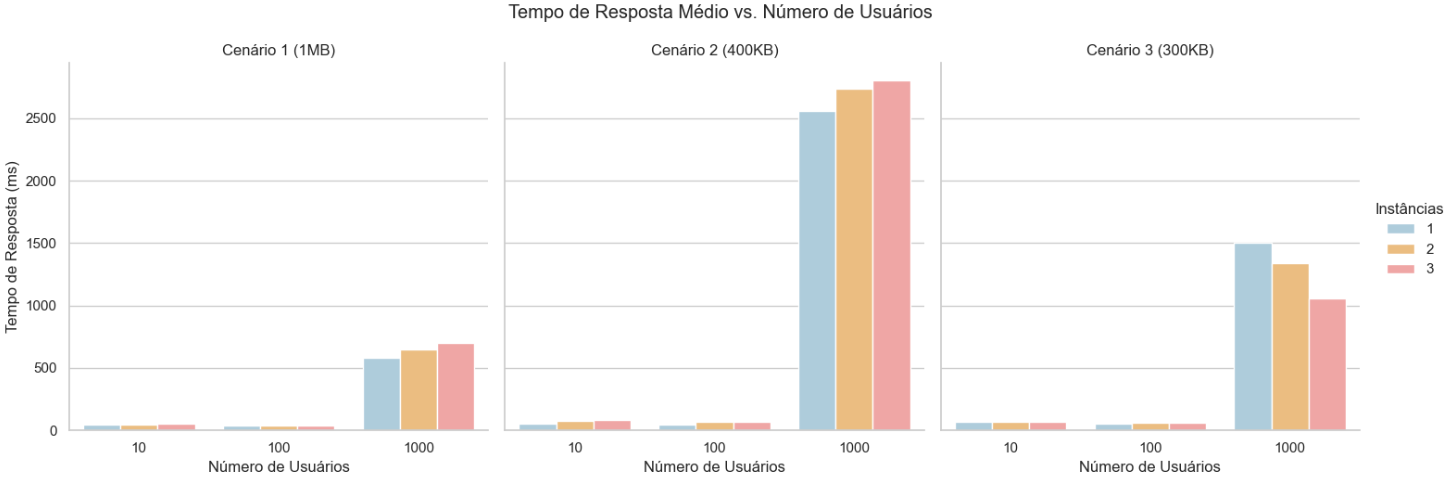
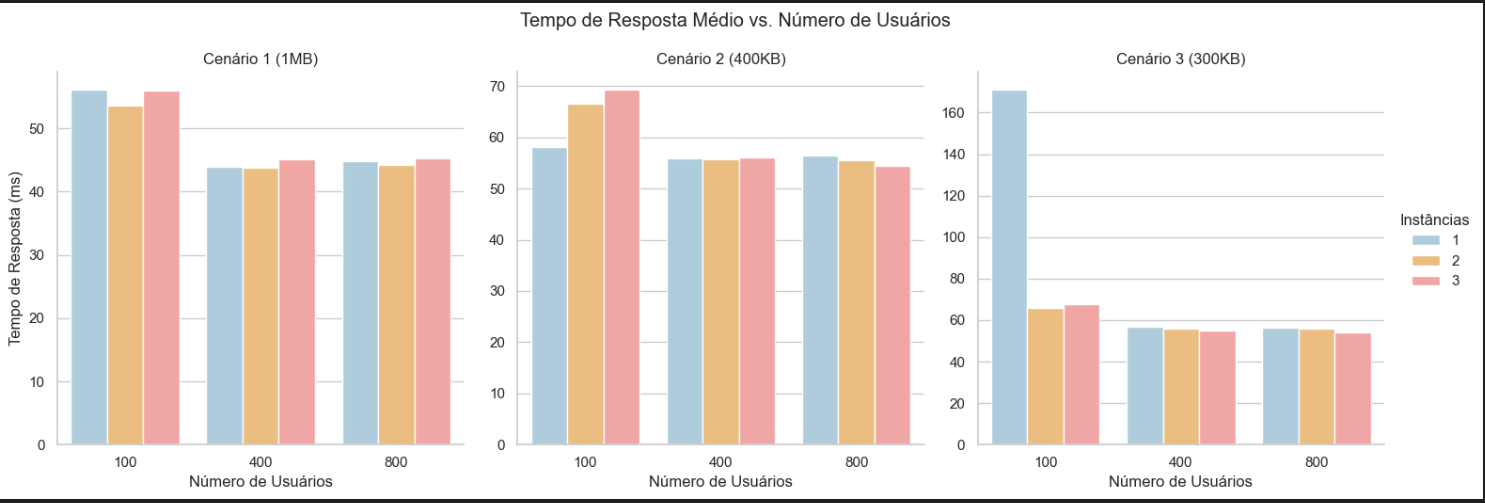
feat: novos valores

diff --git a/locust-scripts/gerar_graficos.py b/locust-scripts/gerar_graficos.py
@@ -91,30 +91,31 @@ try:
 except Exception as e:
     print(f"Erro ao gerar o Gráfico 1: {e}")
 
-try:
-    g2 = sns.catplot(
-        data=df_consolidado,
-        x='Instancias',         
-        y='RPS',                 
-        hue='Usuarios',          
-        col='Cenario',          
-        kind='bar',
-        palette=my_palette,     
-        height=5,
-        aspect=1,
-        legend_out=True,
-        sharey=False
-    )
-    g2.fig.suptitle('Requisições por Segundo (RPS) vs. Número de Instâncias', y=1.05)
-    g2.set_axis_labels('Número de Instâncias', 'Requisições por Segundo (RPS)')
-    g2.set_titles("{col_name}")
-    g2._legend.set_title('Usuários')
+# Mostrar apenas um dos gráficos
+# try:
+#     g2 = sns.catplot(
+#         data=df_consolidado,
+#         x='Instancias',         
+#         y='RPS',                 
+#         hue='Usuarios',          
+#         col='Cenario',          
+#         kind='bar',
+#         palette=my_palette,     
+#         height=5,
+#         aspect=1,
+#         legend_out=True,
+#         sharey=False
+#     )
+#     g2.fig.suptitle('Requisições por Segundo (RPS) vs. Número de Instâncias', y=1.05)
+#     g2.set_axis_labels('Número de Instâncias', 'Requisições por Segundo (RPS)')
+#     g2.set_titles("{col_name}")
+#     g2._legend.set_title('Usuários')
     
-    plt.savefig("grafico_rps.png", bbox_inches='tight')
-    print("Gráfico 'grafico_rps.png' salvo com sucesso.")
-    plt.close()
+#     plt.savefig("grafico_rps.png", bbox_inches='tight')
+#     print("Gráfico 'grafico_rps.png' salvo com sucesso.")
+#     plt.close()
 
-except Exception as e:
-    print(f"Erro ao gerar o Gráfico 2: {e}")
+# except Exception as e:
+#     print(f"Erro ao gerar o Gráfico 2: {e}")
 
 print("\nProcesso concluído.")

diff --git a/README.md b/README.md
@@ -231,9 +231,8 @@ Esses parâmetros podem ser ajustados diretamente no comando de execução do **
 
 ## 🧪 Demonstração
 
-A imagem abaixo mostra os gráficos gerados
+A imagem abaixo mostra o gráfico gerado
 
-![Demonstração do projeto rodando no Docker Compose](./assets/grafico_rps.png)
 ![Demonstração do projeto rodando no Docker Compose](./assets/grafico_tempo_resposta.png)
 
 
